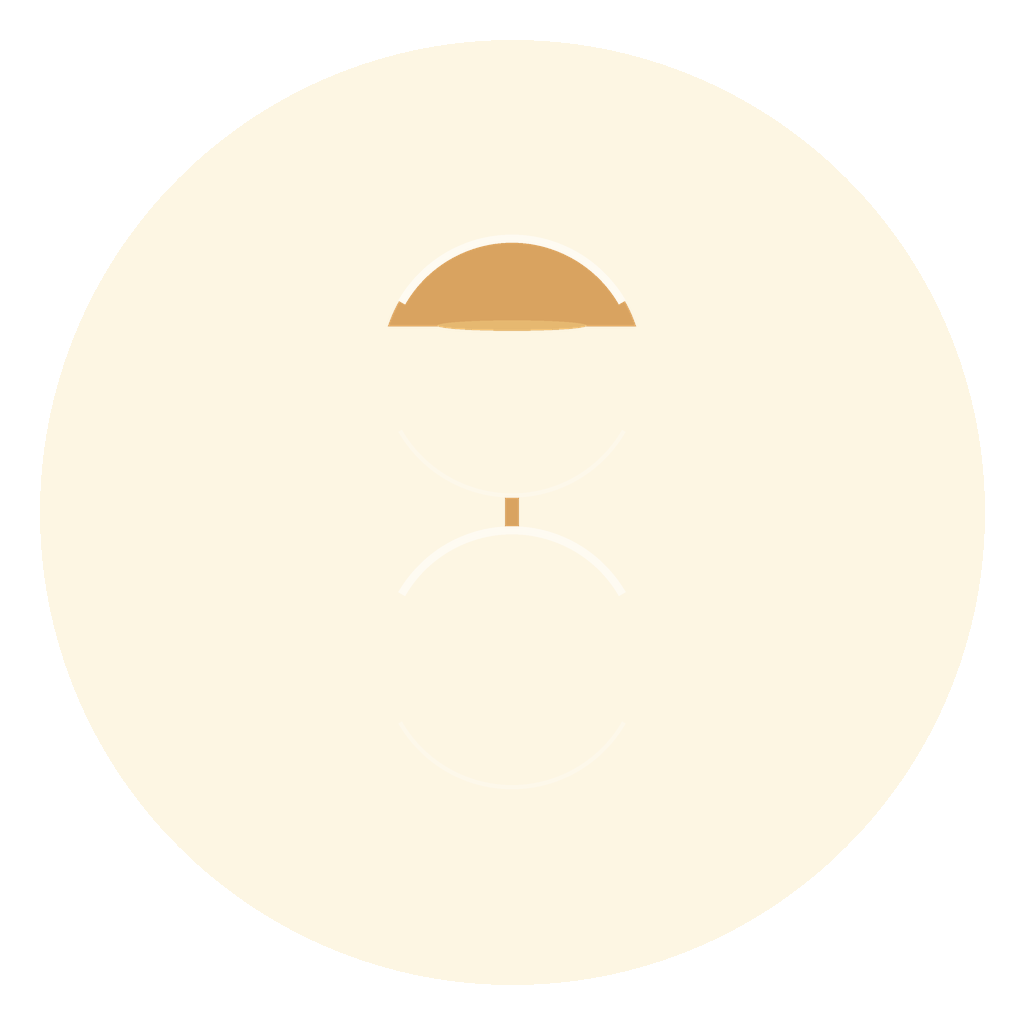
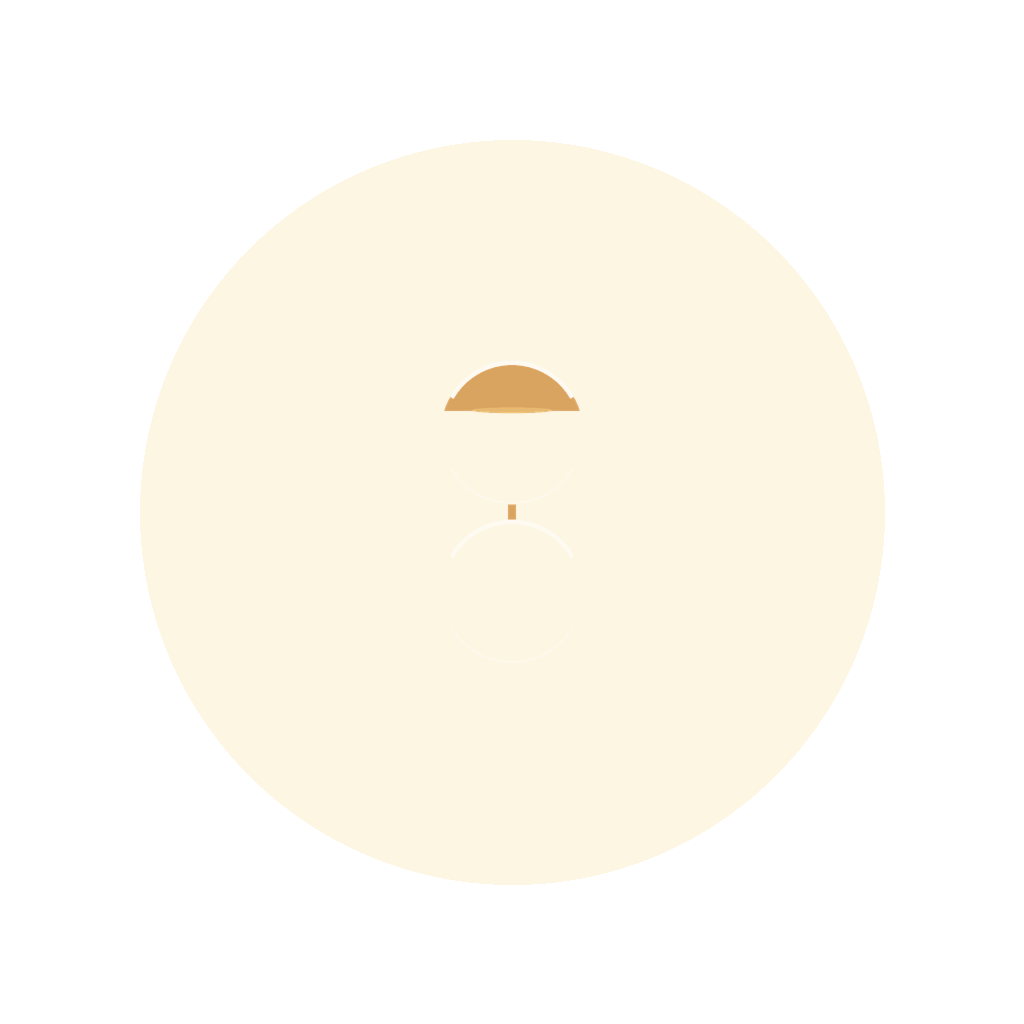
fix: 周期弹窗闪退 + 图标完整显示
- 根因: cancel_btn.bind(on_press=popup.dismiss) 在 popup 赋值前执行 → UnboundLocalError
- bind 移至 popup 创建之后
- GridLayout → BoxLayout 行 (避免 Android 兼容问题)
- 图标重新生成: 35%高度占比, 足够边距, QA 通过

Changed region(s): [[0.0312, 0.0312, 0.9688, 0.9688], [0.375, 0.2188, 0.625, 0.4062]]

diff --git a/main.py b/main.py
@@ -27,10 +27,8 @@ from kivy.graphics import (Color, Rectangle, Line, Ellipse,
 from kivy.metrics import dp, sp
 from kivy.uix.boxlayout import BoxLayout
 from kivy.uix.button import Button
-from kivy.uix.gridlayout import GridLayout
 from kivy.uix.label import Label
 from kivy.uix.popup import Popup
-from kivy.uix.slider import Slider
 from kivy.uix.textinput import TextInput
 from kivy.uix.widget import Widget
 from kivy.utils import platform
@@ -999,7 +997,6 @@ class HourglassApp(App):
 
         content = BoxLayout(orientation="vertical", spacing=dp(10),
                             padding=[dp(12), dp(12), dp(12), dp(8)])
-        content.size_hint = (1, 1)
 
         # --- 基础周期按钮 (单行5列,避免GridLayout最后一行不对齐) ---
         base_grid = BoxLayout(orientation="horizontal", spacing=dp(6),
@@ -1021,26 +1018,27 @@ class HourglassApp(App):
             base_grid.add_widget(btn)
         content.add_widget(base_grid)
 
-        # --- 倍数按钮 (两行, 替代 Slider 避免 Android 兼容闪退) ---
+        # --- 倍数按钮 (两行 BoxLayout, 不用 GridLayout 避免 Android 兼容问题) ---
         MULTIPLIERS = [1, 2, 3, 5, 10, 15, 20, 30, 50, 100]
-        content.add_widget(Label(text="倍数:", size_hint=(1, None), height=dp(20),
-                                 color=(0.2, 0.2, 0.2, 1), font_size=sp(13),
+        content.add_widget(Label(text="倍数:", size_hint=(1, None), height=dp(18),
+                                 color=(0.2, 0.2, 0.2, 1), font_size=sp(12),
                                  halign="left"))
-        mult_grid = GridLayout(cols=5, spacing=dp(5), size_hint=(1, None),
-                               height=dp(72))
         mult_btns = {}
-        for m in MULTIPLIERS:
-            is_m = (m == init_mult)
-            btn = Button(text=f"{m}×", font_size=sp(13),
-                         background_normal="",
-                         background_color=(*sand_c, 0.8) if is_m
-                                          else (*base_default, 0.12),
-                         color=(1, 1, 1, 1) if is_m else (0.2, 0.2, 0.2, 1))
-            btn.bind(on_press=lambda inst, v=m:
-                     self._on_mult_picked(v, mult_btns, state, preview_label))
-            mult_btns[m] = btn
-            mult_grid.add_widget(btn)
-        content.add_widget(mult_grid)
+        for row_vals in [MULTIPLIERS[:5], MULTIPLIERS[5:]]:
+            row = BoxLayout(orientation="horizontal", spacing=dp(5),
+                            size_hint=(1, None), height=dp(34))
+            for m in row_vals:
+                is_m = (m == init_mult)
+                btn = Button(text=f"{m}×", font_size=sp(13),
+                             background_normal="",
+                             background_color=(*sand_c, 0.8) if is_m
+                                              else (*base_default, 0.12),
+                             color=(1, 1, 1, 1) if is_m else (0.2, 0.2, 0.2, 1))
+                btn.bind(on_press=lambda inst, v=m:
+                         self._on_mult_picked(v, mult_btns, state, preview_label))
+                mult_btns[m] = btn
+                row.add_widget(btn)
+            content.add_widget(row)
 
         # --- 预览 ---
         preview_label = Label(
@@ -1063,15 +1061,11 @@ class HourglassApp(App):
                             background_normal="",
                             background_color=(*hex_rgb(GLASS_OUTLINE), 0.15),
                             color=(0.2, 0.2, 0.2, 1))
-        cancel_btn.bind(on_press=popup.dismiss)
         btn_row.add_widget(cancel_btn)
         confirm_btn = Button(text="确定", font_size=sp(14), bold=True,
                              background_normal="",
                              background_color=(0.353, 0.620, 0.243, 1),
                              color=(1, 1, 1, 1))
-        confirm_btn.bind(on_press=lambda inst:
-                         self._pick_duration(state['base'] * state['mult'],
-                                            popup))
         btn_row.add_widget(confirm_btn)
         content.add_widget(btn_row)
 
@@ -1082,6 +1076,11 @@ class HourglassApp(App):
                       title_size=sp(16))
         popup.separator_color = (0.373, 0.420, 0.439, 0.3)
 
+        # 绑定必须放在 popup 创建之后
+        cancel_btn.bind(on_press=popup.dismiss)
+        confirm_btn.bind(on_press=lambda inst:
+                         self._pick_duration(state['base'] * state['mult'],
+                                            popup))
         popup.open()
 
     def _on_base_picked(self, val, base_btns, state, mult_btns, preview_label):